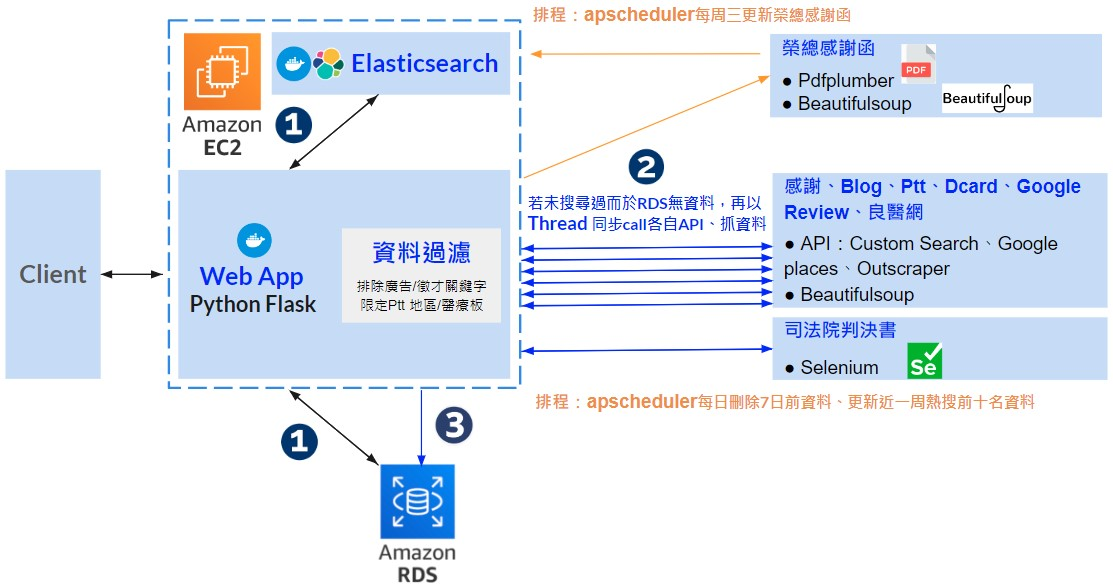
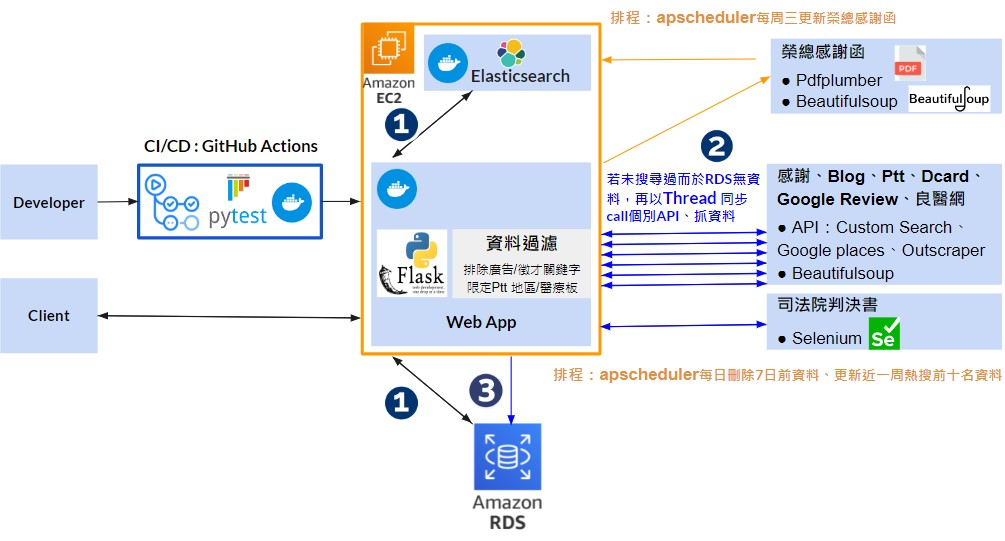
revise cd yml and README

diff --git a/elastic.py b/elastic.py
@@ -159,12 +159,6 @@ def crawlerletter():
                 }
             })
 
-            try:
-                print(res['hits']['hits'])
-                print(res['hits']['hits'][0]['_source']['month'])
-            except:
-                pass
-
             if len(res['hits']['hits']) == 0:
 
                 if "../" in url:

diff --git a/README.md b/README.md
@@ -17,6 +17,14 @@ https://finddoctor.abinitio.fun/
 
 [database]:./readme/database.jpg
 
+### CI/CD
+![][CICD]
+
+[CICD]:./readme/CICD.jpg
+
+### PyTest Report
+<img src="./readme/testresult.jpg" height="40%" width="40%" >
+
 ### Demo
 ![][demo1]
 
